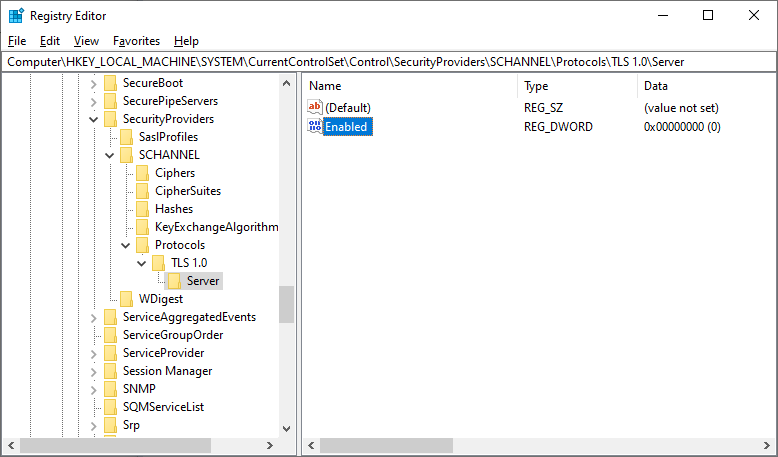
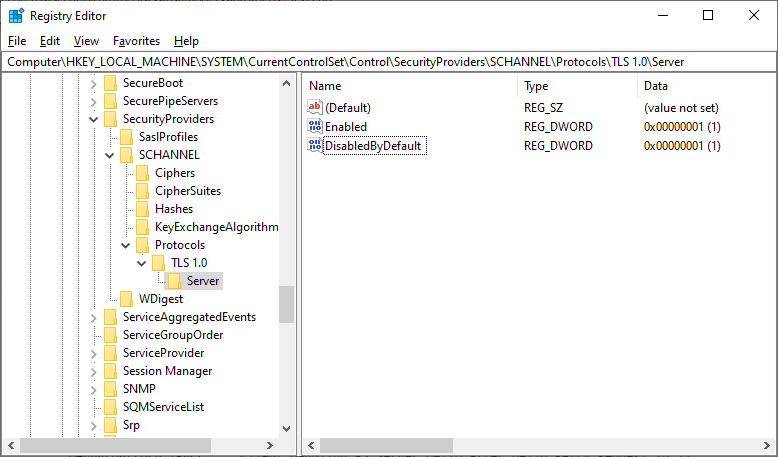
Updated DTLS 1.2 image

Changed region(s): [[0.401, 0.2451, 0.5553, 0.337], [0.8329, 0.2451, 0.9254, 0.337], [0.6787, 0.3063, 0.7712, 0.337]]

diff --git a/WindowsServerDocs/security/tls/tls-registry-settings.md b/WindowsServerDocs/security/tls/tls-registry-settings.md
@@ -40,9 +40,9 @@ By default, the Schannel provider will use the following four certificate mappin
 3. One-to-one mapping (also known as subject/issuer mapping)
 4. Many-to-one mapping
 
-Applicable versions: As designated in the **Applies To** list at the beginning of this topic.
+Applicable versions: As designated in the **Applies To** list at the beginning of this article.
 
-Registry path: HKLM SYSTEM\CurrentControlSet\Control\SecurityProviders\SCHANNEL
+Registry path: **HKLM SYSTEM\CurrentControlSet\Control\SecurityProviders\SCHANNEL**
 
 ## Ciphers
 
@@ -67,7 +67,7 @@ When this is complete, the master secret, cipher suite, and certificates are sto
 
 Beginning with Windows Server 2008 and Windows Vista, the default client cache time is 10 hours.
 
-Registry path: HKLM SYSTEM\CurrentControlSet\Control\SecurityProviders\SCHANNEL
+Registry path: **HKLM SYSTEM\CurrentControlSet\Control\SecurityProviders\SCHANNEL**
 
 ## EnableOcspStaplingForSni
 
@@ -80,6 +80,7 @@ In addition to IIS, web services over http.sys can also benefit from this settin
 
 By default, OCSP support is enabled for IIS websites that have a simple secure (SSL/TLS) binding.
 However, this support is not enabled by default if the IIS website is using either or both of the following types of SSL/TLS bindings:
+
 - Require Server Name Indication
 - Use Centralized Certificate Store
 
@@ -89,7 +90,7 @@ Because SNI and CCS enable IIS to scale to thousands of websites that potentiall
 
 Applicable versions: All versions beginning with Windows Server 2012 and Windows 8.
 
-Registry path: [HKEY_LOCAL_MACHINE\SYSTEM\CurrentControlSet\Control\SecurityProviders\SCHANNEL]
+Registry path: **HKEY_LOCAL_MACHINE\SYSTEM\CurrentControlSet\Control\SecurityProviders\SCHANNEL**
 
 Add the following key:
 
@@ -131,7 +132,7 @@ The default value is 100.
 
 Applicable versions: All versions beginning with Windows Server 2008 and Windows Vista.
 
-Registry path: HKLM SYSTEM\CurrentControlSet\Control\SecurityProviders\SCHANNEL
+Registry path: **HKLM SYSTEM\CurrentControlSet\Control\SecurityProviders\SCHANNEL**
 
 ## IssuerCacheTime
 
@@ -146,7 +147,7 @@ The default value is 10 minutes.
 
 Applicable versions: All versions beginning with Windows Server 2008 and Windows Vista.
 
-Registry path: HKLM SYSTEM\CurrentControlSet\Control\SecurityProviders\SCHANNEL
+Registry path: **HKLM SYSTEM\CurrentControlSet\Control\SecurityProviders\SCHANNEL**
 
 ## KeyExchangeAlgorithm - Client RSA key sizes
 
@@ -156,7 +157,7 @@ Use of key exchange algorithms should be controlled by configuring the cipher su
 
 Added in Windows 10, version 1507 and Windows Server 2016.
 
-Registry path: HKLM\SYSTEM\CurrentControlSet\Control\SecurityProviders\SCHANNEL\KeyExchangeAlgorithms\PKCS
+Registry path: **HKLM\SYSTEM\CurrentControlSet\Control\SecurityProviders\SCHANNEL\KeyExchangeAlgorithms\PKCS**
 
 To specify a minimum supported range of RSA key bit length for the TLS client, create a **ClientMinKeyBitLength** entry.
 This entry does not exist in the registry by default.
@@ -176,7 +177,7 @@ Use of key exchange algorithms should be controlled by configuring the cipher su
 
 Added in Windows 10, version 1507 and Windows Server 2016.
 
-Registry path: HKLM\SYSTEM\CurrentControlSet\Control\SecurityProviders\SCHANNEL\KeyExchangeAlgorithms\Diffie-Hellman
+Registry path: **HKLM\SYSTEM\CurrentControlSet\Control\SecurityProviders\SCHANNEL\KeyExchangeAlgorithms\Diffie-Hellman**
 
 To specify a minimum supported range of Diffie-Helman key bit length for the TLS client, create a **ClientMinKeyBitLength** entry.
 This entry does not exist in the registry by default.
@@ -198,13 +199,13 @@ If not configured, 2048 bits will be the default.
 This entry controls the maximum number of cache elements.
 Setting MaximumCacheSize to 0 disables the server-side session cache and prevents reconnection.
 Increasing MaximumCacheSize above the default values causes Lsass.exe to consume additional memory.
-Each session-cache element typically requires 2 to 4 KB of memory.
+Each session-cache element typically requires 2 KB to 4 KB of memory.
 This entry does not exist in the registry by default.
 The default value is 20,000 elements.
 
 Applicable versions: All versions beginning with Windows Server 2008 and Windows Vista.
 
-Registry path: HKLM SYSTEM\CurrentControlSet\Control\SecurityProviders\SCHANNEL
+Registry path: **HKLM SYSTEM\CurrentControlSet\Control\SecurityProviders\SCHANNEL**
 
 ## Messaging – fragment parsing
 
@@ -220,37 +221,28 @@ Allowing a client or server to read and store large amounts of unverified data f
 
 Added in Windows 7 and Windows Server 2008 R2: An update that enables Internet Explorer in Windows XP, in Windows Vista, or in Windows Server 2008 to parse fragmented TLS/SSL handshake messages is available.
 
-Registry path: HKLM\SYSTEM\CurrentControlSet\Control\SecurityProviders\SCHANNEL\Messaging
+Registry path: **HKLM\SYSTEM\CurrentControlSet\Control\SecurityProviders\SCHANNEL\Messaging**
 
 To specify a maximum allowed size of fragmented TLS handshake messages that the TLS client will accept, create a **MessageLimitClient** entry.
-After you have created the entry, change the DWORD value to the desired bit length.
-If not configured, the default value will be 0x8000 bytes.
+After you have created the entry, change the DWORD value to the desired bit length. If not configured, the default value will be 0x8000 bytes.
 
-To specify a maximum allowed size of fragmented TLS handshake messages that the TLS server will accept when there is no client authentication, create a **MessageLimitServer** entry.
-After you have created the entry, change the DWORD value to the desired bit length.
+To specify a maximum allowed size of fragmented TLS handshake messages that the TLS server will accept when there is no client authentication, create a **MessageLimitServer** entry. After you have created the entry, change the DWORD value to the desired bit length.
 If not configured, the default value will be 0x4000 bytes.
 
-To specify a maximum allowed size of fragmented TLS handshake messages that the TLS server will accept when there is client authentication, create a **MessageLimitServerClientAuth** entry.
-After you have created the entry, change the DWORD value to the desired bit length.
-If not configured, the default value will be 0x8000 bytes.
+To specify a maximum allowed size of fragmented TLS handshake messages that the TLS server will accept when there is client authentication, create a **MessageLimitServerClientAuth** entry. After you have created the entry, change the DWORD value to the desired bit length. If not configured, the default value will be 0x8000 bytes.
 
 ## SendTrustedIssuerList
 
-This entry controls the flag that is used when the list of trusted issuers is sent.
-In the case of servers that trust hundreds of certification authorities for client authentication, there are too many issuers for the server to be able to send them all to the client computer when requesting client authentication.
-In this situation, this registry key can be set, and instead of sending a partial list, the Schannel SSP will not send any list to the client.
+This entry controls the flag that is used when the list of trusted issuers is sent. In the case of servers that trust hundreds of certification authorities for client authentication, there are too many issuers for the server to be able to send them all to the client computer when requesting client authentication. In this situation, this registry key can be set, and instead of sending a partial list, the Schannel SSP will not send any list to the client.
 
-Not sending a list of trusted issuers might impact what the client sends when it is asked for a client certificate.
-For example, when Internet Explorer receives a request for client authentication, it only displays the client certificates that chain up to one of the certification authorities that is sent by the server.
+Not sending a list of trusted issuers might impact what the client sends when it is asked for a client certificate. For example, when Internet Explorer receives a request for client authentication, it only displays the client certificates that chain up to one of the certification authorities that is sent by the server.
 If the server did not send a list, Internet Explorer displays all of the client certificates that are installed on the client.
 
-This behavior might be desirable.
-For example, when PKI environments include cross certificates, the client and server certificates will not have the same root CA; therefore, Internet Explorer cannot chose a certificate that chains up to one of the server's CAs.
-By configuring the server to not send a trusted issuer list, Internet Explorer will send all its certificates.
+This behavior might be desirable. For example, when PKI environments include cross certificates, the client and server certificates will not have the same root CA; therefore, Internet Explorer cannot chose a certificate that chains up to one of the server's CAs. By configuring the server to not send a trusted issuer list, Internet Explorer will send all its certificates.
 
 This entry does not exist in the registry by default.
 
-**Default Send Trusted Issuer List behavior**
+### Default Send Trusted Issuer List behavior
 
 | Windows version | Default behavior |
 |-----------------|------|
@@ -271,7 +263,7 @@ This entry does not exist in the registry by default.
 
 Applicable versions: All versions beginning with Windows Server 2008 and Windows Vista.
 
-Registry path: HKLM SYSTEM\CurrentControlSet\Control\SecurityProviders\SCHANNEL
+Registry path: **HKLM SYSTEM\CurrentControlSet\Control\SecurityProviders\SCHANNEL**
 
 Default server cache time: 10 hours
 
@@ -280,8 +272,8 @@ Default server cache time: 10 hours
 Schannel SSP implements versions of the TLS, DTLS, and SSL protocols. Different Windows releases support different [protocol versions](/windows/win32/secauthn/protocols-in-tls-ssl--schannel-ssp-). The set of (D)TLS and SSL versions available system-wide can be restricted (but not expanded) by SSPI callers specifying either [SCH_CREDENTIALS](/windows/win32/api/schannel/ns-schannel-sch_credentials) or [SCHANNEL_CRED](/windows/win32/api/schannel/ns-schannel-schannel_cred) structure in the [AcquireCredentialsHandle](/windows/win32/secauthn/acquirecredentialshandle--schannel) call. It is recommended that SSPI callers use the system defaults, rather than imposing protocol version restrictions.
 
 A supported (D)TLS or SSL protocol version can exist in one of the following states:
-- **Enabled**: unless the SSPI caller explicitly disables this protocol version using the [SCH_CREDENTIALS](/windows/win32/api/schannel/ns-schannel-sch_credentials) structure, Schannel SSP may negotiate this protocol version with a supporting peer.
-- **Disabled by default**: unless the SSPI caller explicitly requests this protocol version using the deprecated [SCHANNEL_CRED](/windows/win32/api/schannel/ns-schannel-schannel_cred) structure, Schannel SSP will not negotiate this protocol version.
+- **Enabled**: Unless the SSPI caller explicitly disables this protocol version using the [SCH_CREDENTIALS](/windows/win32/api/schannel/ns-schannel-sch_credentials) structure, Schannel SSP may negotiate this protocol version with a supporting peer.
+- **Disabled by default**: Unless the SSPI caller explicitly requests this protocol version using the deprecated [SCHANNEL_CRED](/windows/win32/api/schannel/ns-schannel-schannel_cred) structure, Schannel SSP will not negotiate this protocol version.
 - **Disabled**: Schannel SSP will not negotiate this protocol version regardless of the settings the SSPI caller may specify.
 
 The system administrator can override the default (D)TLS and SSL protocol version settings by creating DWORD registry values "Enabled" and "DisabledByDefault". These registry values are configured separately for the protocol client and server roles under the registry subkeys named using the following format:
@@ -306,26 +298,19 @@ The following example shows TLS 1.0 client set to the **Enabled** state:
 
 ![TLS 1.0 client enabled](images/tls-10-client-enabled.png)
 
-In order to override a system default and set a supported (D)TLS or SSL protocol version to the **Disabled by default** state, create DWORD registry values named "Enabled" 
-and "DisabledByDefault" with a non-zero value under the corresponding version-specific subkey. The following example shows TLS 1.0 server set to the **Disabled by default** state:
+In order to override a system default and set a supported (D)TLS or SSL protocol version to the **Disabled by default** state, create DWORD registry values named "Enabled" and "DisabledByDefault" with a non-zero value under the corresponding version-specific subkey. The following example shows TLS 1.0 server set to the **Disabled by default** state:
 
-![TLS 1.0 server disabled by default](images/tls-10-server-disabledbydefault.png)
+![TLS 1.0 server disabled by default](images/tls-10-server-disabled.png)
 
-In order to override a system default and set a supported (D)TLS or SSL protocol version to the **Disabled** state, create a DWORD registry value named "Enabled", with a value of zero,
-under the corresponding version-specific subkey.
+In order to override a system default and set a supported (D)TLS or SSL protocol version to the **Disabled** state, create a DWORD registry value named "Enabled", with a value of zero, under the corresponding version-specific subkey.
 
 The following example shows DTLS 1.2 disabled in the registry:
 
-![DTLS 1.2 disabled](https://user-images.githubusercontent.com/3296790/87178706-3598af00-c2fb-11ea-84a9-db3f7d0313c8.png)
+![Windows Server registry setting for DTLS 1.2 set to disabled by default](images/tls-12-server-disabledbydefault.png)
 
-Switching a (D)TLS or SSL protocol version to **Disabled by default** or **Disabled** state may cause 
-[AcquireCredentialsHandle](/windows/win32/secauthn/acquirecredentialshandle--schannel) calls to fail due to the lack of protocol versions 
-enabled system-wide and at the same time allowed by particular SSPI callers. In addition, reducing the set of **Enabled** (D)TLS and SSL versions may break interoperability 
-with remote peers.
+Switching a (D)TLS or SSL protocol version to **Disabled by default** or **Disabled** state may cause
+[AcquireCredentialsHandle](/windows/win32/secauthn/acquirecredentialshandle--schannel) calls to fail due to the lack of protocol versions enabled system-wide and at the same time allowed by particular SSPI callers. In addition, reducing the set of **Enabled** (D)TLS and SSL versions may break interoperability with remote peers.
 
-Once the (D)TLS or SSL protocol version settings have been modified, they take effect on connections established using credential handles opened by subsequent 
-[AcquireCredentialsHandle](/windows/win32/secauthn/acquirecredentialshandle--schannel) calls. (D)TLS and SSL client and server applications 
-and services tend to reuse credential handles for multiple connections, for performance reasons. In order to get these applications to reacquire their credential handles, 
-an application or service restart may be required.
+Once the (D)TLS or SSL protocol version settings have been modified, they take effect on connections established using credential handles opened by subsequent [AcquireCredentialsHandle](/windows/win32/secauthn/acquirecredentialshandle--schannel) calls. (D)TLS and SSL client and server applications and services tend to reuse credential handles for multiple connections, for performance reasons. In order to get these applications to reacquire their credential handles, an application or service restart may be required.
 
 Please note that these registry settings only apply to Schannel SSP and do not affect any third-party (D)TLS and SSL implementations that may be installed on the system.
